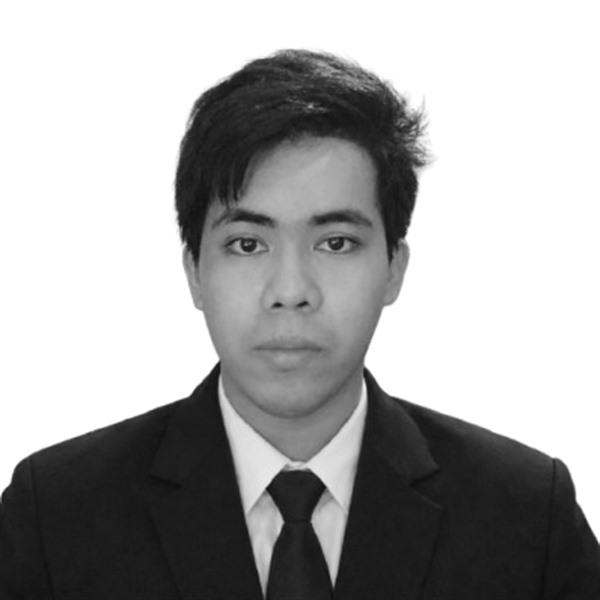
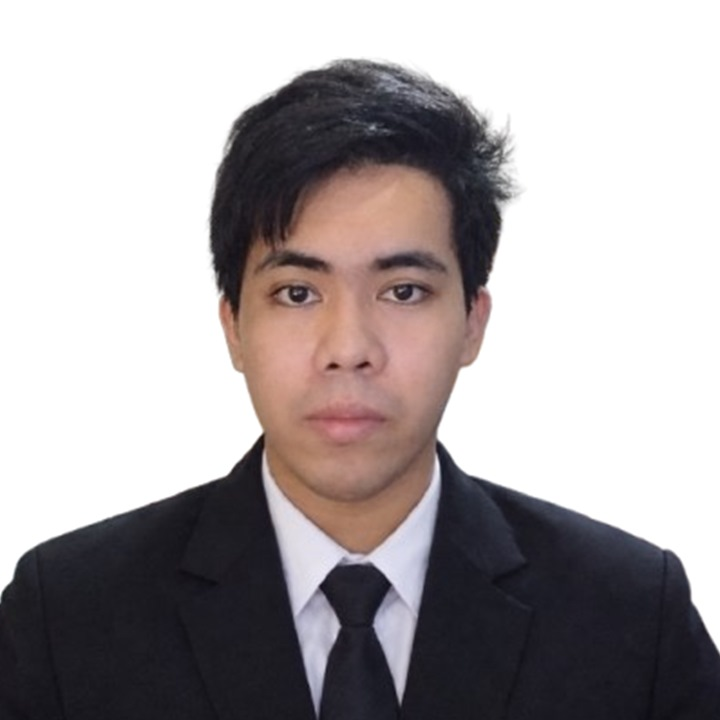
CV: keep the photo in full colour

Changed region(s): [[0.3, 0.21, 0.69, 0.78]]

diff --git a/app/globals.css b/app/globals.css
@@ -1275,7 +1275,6 @@ h4 {
   width: 100%;
   height: 100%;
   object-fit: cover;
-  filter: grayscale(100%);
 }
 
 .cv-photo-empty {
@@ -1697,8 +1696,5 @@ h4 {
   }
   .cv-entry {
     break-inside: avoid;
-  }
-  .cv-photo img {
-    filter: none;
   }
 }
